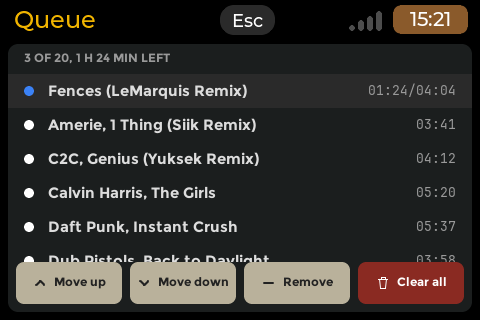
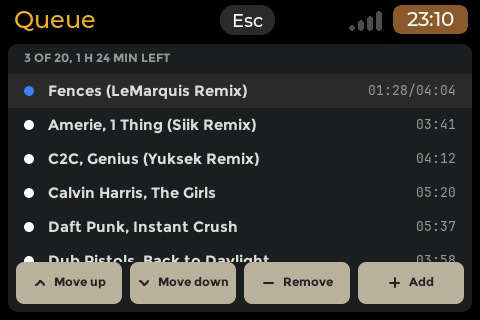
docs: app READMEs, counts, pins and screenshots brought up to date (#170)
* docs: app READMEs, root README counts and pins, Vinyl 0.8.0 shots, VHS and Mesh Hop notes brought up to date

Claude-Session: https://claude.ai/code/session_01DZirtJsMfHq7t5PFzh86rt

* docs: Vinyl and Mesh Hop screenshots re-rendered, Vinyl Equalizer, Knock-knock, Transition shots added

Claude-Session: https://claude.ai/code/session_01DZirtJsMfHq7t5PFzh86rt

---------

Changed region(s): [[0.7188, 0.8125, 0.9688, 0.9688], [0.8438, 0.0312, 0.9688, 0.0938]]

diff --git a/README.md b/README.md
@@ -43,9 +43,9 @@ Each app has its own page with the full description, keys, requirements, known l
 | [**RSS Reader**](apps/rss-reader/README.md) (`rss-reader`) | 0.2.1 | arm64, amd64 | A reader of RSS and Atom text feeds: pin your favorite news, tech and science feeds from a catalog of about 260 by country and topic, or add any site by its address, then read the articles full screen with their pictures, and save them to read offline, by touch or keyboard, on any screen from 640x480 up. Category Internet. |
 | [**Serial Console**](apps/serial-console/README.md) (`serial-console`) | 0.6.1 | arm64, amd64 | Finds your USB-serial adapters and boards, tells what is plugged in and what is behind it, recommends the settings, and talks to it. Category Tools. |
 | [**System Monitor**](apps/system-monitor/README.md) (`system-monitor`) | 0.3.1 | arm64, amd64 | A live look at the board or PC it runs on: CPU, temperature, memory, storage, network, processes, and the power supply or battery. Category Tools. |
-| [**Vinyl**](apps/vinyl/README.md) (`vinyl`) | 0.8.0 | arm64, amd64 | A music player for the music in `~/Music` and on USB drives (mounted on request, with Eject): a Library of artists, albums, songs and genres with search and the actions of a track, your own playlists (M3U8 files in `~/Music/Playlists`, with import and export), or folder by folder, gapless, shuffle, repeat, embedded cover art and resume where you stopped, with a record that slides out of its sleeve and turns while it plays. MP3, FLAC, Ogg Vorbis and Opus, WAV and AIFF, and through FFmpeg (installed with it) AAC, ALAC, WMA, APE and more. Plays on while you use other apps; wired outputs, and Bluetooth headsets and speakers on boards with a sound server; the volume of the playing output in steps fitted to it (down to 0.1 dB) and a gain boost for quiet outputs; a ten-band equalizer with presets; a Transition setting (Normal, Gapless or a crossfade of 5, 10 or 20 seconds); network folders: add your own SMB share from Music folders, and play a share the system mounted (launcher v0.10.8 or later); Knock-knock, three taps on the cover switch the screen off while the music plays (launcher 0.10.4 or later); headset and keyboard play keys; drag the seek bar to a point. From 480x320 up: 480x320, 640x480, square, portrait (PDA mode) and two-pane layouts. Category Tools. |
+| [**Vinyl**](apps/vinyl/README.md) (`vinyl`) | 0.8.0 | arm64, amd64 | A music player for the music in `~/Music` and on USB drives (mounted on request, with Eject): a Library of artists, albums, songs and genres with search and the actions of a track, your own playlists (M3U8 files in `~/Music/Playlists`, with import and export), or folder by folder, gapless, shuffle, repeat, embedded cover art and resume where you stopped, with a record that slides out of its sleeve and turns while it plays. MP3, FLAC, Ogg Vorbis and Opus, WAV and AIFF, and through FFmpeg (installed with it) AAC, ALAC, WMA, APE and more. Plays on while you use other apps; wired outputs, and Bluetooth headsets and speakers on boards with a sound server; the volume of the playing output in steps fitted to it (down to 0.1 dB) and a gain boost for quiet outputs; a ten-band equalizer with presets; a Transition setting (Normal, Gapless or a crossfade of 5, 10 or 20 seconds); network folders: add your own SMB share from Music folders (launcher v0.10.8 or later), and play a share the system mounted; Knock-knock, three taps on the cover switch the screen off while the music plays (launcher 0.10.4 or later); headset and keyboard play keys; drag the seek bar to a point. From 480x320 up: 480x320, 640x480, square, portrait (PDA mode) and two-pane layouts. Category Tools. |
 | [**viz1090**](apps/viz1090/README.md) (`viz1090`) | 0.3.2 | arm64, amd64 | The real viz1090 ADS-B display, full screen on any supported screen, fed by an RTL-SDR dongle, with an intro screen, the app header (Esc) and a world map, upright on portrait screens (PDA mode). Needs the dongle and a launcher with full-screen app support. Category Radio. |
-| [**VHS**](apps/vhs/README.md) (`vhs`) | 0.1.2 | arm64, amd64 | A camcorder for USB cameras (UVC with MJPEG; made for the UGREEN FineCam, the Logitech C270 works too): the live picture of the whole frame, with a camera chooser when two or more are plugged in; photos (Instant or Light, up to 8 MP on cameras that offer it, an Exposure row in stops on cameras with manual exposure, a wait for the autofocus to settle) and movies with sound from the camera's microphone or any sound card (MJPEG with AAC in MKV, crash-safe, split at 4 GiB, with a self-timer and a blinking red dot until the first frame is written), a Scenes list with windowed playback and seek, and copy to a USB drive. Plays on while you use other apps. From 480x320 up, with its own layout on large square screens. Needs a USB camera; the Store installs `libturbojpeg` and FFmpeg's libraries with it. Category Tools. |
+| [**VHS**](apps/vhs/README.md) (`vhs`) | 0.1.2 | arm64, amd64 | A camcorder for USB cameras (UVC with MJPEG; made for the UGREEN FineCam, the Logitech C270 works too): the live picture of the whole frame, with a camera chooser when two or more are plugged in; photos (Instant or Light, up to 8 MP on cameras that offer it, an Exposure row in stops on cameras with manual exposure, a wait for the autofocus to settle) and movies with sound from the camera's microphone or any sound card (MJPEG with AAC in MKV, crash-safe, split at 4 GiB, with a self-timer and a blinking red dot until the first frame is written), a Scenes list with windowed playback and seek, and copy to a USB drive. Hidden behind other apps it finishes and saves a recording and releases the camera; a copy to a drive goes on. Any screen size (no minimum), portrait (PDA mode) layout from 320x480, with its own layout on large square screens. Needs a USB camera; the Store installs `libturbojpeg` and FFmpeg's libraries with it. Category Tools. |
 
 `arm64` packages run on the Raspberry Pi boards (the decks). The apps marked `amd64` also have a package for x86-64 PCs
 running the launcher, listed in their own registry ([amd64](#amd64-x86-64-pcs)).
@@ -108,7 +108,7 @@ launcher bundles, so a source you create here also works in the Store app.
 1. On GitHub, click **Use this template / Fork** on this repository (or copy its `tools/` folder into a new
    public repository). The repository must be **public** and its default branch must be **`main`**.
 2. Delete the apps you do not want (`apps/*`; keep `apps/_common` and `apps/cyberdeck-app-template` if you build native
-   apps), `packages/*` (this repository holds 17 app folders and about 120 packages) and `docs/screenshots/`, then clear
+   apps), `packages/*` (this repository holds 19 app folders and about 150 packages) and `docs/screenshots/`, then clear
    `registry.json` and `registry-amd64.json` (`"apps": []`) and replace the table of apps above. Or keep a small app as an example.
 
 ## 2. Build your program for the deck
@@ -119,7 +119,7 @@ runtime: they fill the whole screen they are given and adapt their layout to it 
 not a minimum; 480x320 and 320x480 are normal sizes), and take keys and touch directly. An app declares `X-MinSize` in
 its `.desktop` file only when its UI cannot fit a smaller screen. The [app guidelines](docs/APP-GUIDELINES.md) give the screen
 sizes, the input rules, the packaging and the tests. Native apps build against one launcher commit,
-[`apps/_common/LAUNCHER_REF`](apps/_common/LAUNCHER_REF) (today `28817a5`, launcher main after v0.9.4 with the map engine and its first fixes, off by default; Cassette 0.4.0, Deck Atlas 0.2.0, Mesh Hop 0.8.3 and mmWave Radar 0.1.1 are built at `28817a5`, the other published apps (Home Assistant, Klondike Solitaire, Markdown Notes, Mine Field, Net Toolbox, Net Walk, RSS Reader, Serial Console, System Monitor, viz1090) are still built at `3f6579f`, the SSH indicator commit of launcher v0.8.12); what each launcher version adds for
+[`apps/_common/LAUNCHER_REF`](apps/_common/LAUNCHER_REF) (today `28817a5`, launcher main after v0.9.4 with the map engine and its first fixes, off by default; Cassette 0.4.2, Deck Atlas 0.2.0, Mesh Hop 0.8.3 and mmWave Radar 0.1.1 are built at `28817a5`, Vinyl (0.6.0 to 0.8.0) against launcher v0.10.4 (`1d628b3`), the other published apps (Home Assistant, Klondike Solitaire, Markdown Notes, Mine Field, Net Toolbox, Net Walk, RSS Reader, Serial Console, System Monitor, viz1090) are still built at `3f6579f`, the SSH indicator commit of launcher v0.8.12); what each launcher version adds for
 apps, and when it needs a rebuild: [launcher versions](docs/APP-GUIDELINES.md#launcher-versions-and-what-each-added-for-apps).
 
 Wrapped (compat) apps, such as the first ones here ([LAN Scan](apps/lanscan/README.md),
@@ -282,7 +282,7 @@ System libraries are not shipped: `apt` installs them.
 | libvorbisfile, libvorbis, libogg | BSD-3-Clause | dlopen | Vinyl |
 | FFmpeg (libavformat, libavcodec, libavutil, libswresample) | GPL-2.0-or-later as Debian and Raspberry Pi OS build it (LGPL-2.1-or-later upstream) | dlopen, only when a file needs it (AAC, ALAC, WMA, APE...) | Vinyl, VHS |
 | libturbojpeg (libjpeg-turbo, TurboJPEG API) | IJG License and BSD-3-Clause | dlopen | VHS |
-| libsqlite3 | public domain | dlopen | Deck Atlas |
+| libsqlite3 | public domain | dlopen | Deck Atlas, Vinyl |
 | libcurl4t64 | curl license (MIT style) | dlopen | Deck Atlas, Home Assistant |
 | libsystemd (sd-bus) | LGPL-2.1-or-later | dlopen, only for Bluetooth | Mesh Hop, mmWave Radar |
 | libsdl2, libsdl2-ttf, libsdl2-gfx | zlib | linked | viz1090 |
@@ -298,7 +298,11 @@ System libraries are not shipped: `apt` installs them.
 | Caveat SemiBold | SIL OFL 1.1 | built in (the cassette label) | Cassette |
 
 Programs an app runs, which are not libraries: `curl` (RSS Reader, Net Toolbox, Mesh Hop), `python3` (Mesh Hop, viz1090),
-`network-manager` (Net Toolbox), `bluez` (recommended by Mesh Hop and mmWave Radar). The launcher's fonts (Montserrat and
+`network-manager` (Net Toolbox), `bluez` (recommended by Mesh Hop and mmWave Radar), and, only when they are there:
+`udisksctl` (udisks2: Vinyl and VHS mount USB drives with it), `pactl` (Cassette: a card's level through a sound server),
+`vcgencmd` (System Monitor and VHS: the supply flags on a Raspberry Pi), `iw` (System Monitor, Net Toolbox),
+`bluetoothctl` and `openssl` (Net Toolbox) and the launcher's share helper (Vinyl's network shares, launcher v0.10.8 or
+later). The launcher's fonts (Montserrat and
 JetBrains Mono, SIL OFL 1.1) are read from the launcher at run time and not shipped.
 
 A library an app opens at run time has to be named in that app's `copyright` file and README
@@ -335,8 +339,8 @@ Walk, Serial Console and System Monitor have none beyond the libraries of the
   (MIT).
 * **viz1090** bundles viz1090 (BSD), readsb (GPL-3 or later), fonts (SIL OFL 1.1, Font Awesome icons CC BY 4.0) and
   map data (Natural Earth, OurAirports, public domain); see [its page](apps/viz1090/README.md).
-* **Cassette** has its own code (MIT) on the LVGL based `cp0_lvgl` runtime (MIT); the handwriting on the cassette label is Caveat SemiBold (SIL OFL 1.1, compiled into the binary, licence in the package's copyright file). It opens libasound, libFLAC, libopus and libopusenc from the system at run time and ships none of them; see [its page](apps/cassette/README.md).
-* **Vinyl** has its own code (MIT) on the LVGL based `cp0_lvgl` runtime (MIT), its sound-server and ALSA layers and the FLAC / Opus readers from this repository's Cassette (same author, MIT), and stb_image 2.30 (public domain or MIT) for embedded cover pictures. It opens libmpg123, libvorbisfile, libFLAC, libopus, libasound, libpulse and FFmpeg from the system at run time, never ships them; see [its page](apps/vinyl/README.md).
+* **Cassette** has its own code (MIT) on the LVGL based `cp0_lvgl` runtime (MIT); the handwriting on the cassette label is Caveat SemiBold (SIL OFL 1.1, compiled into the binary, licence in the package's copyright file). It opens libasound, libFLAC, libopus, libopusenc and libpulse from the system at run time and ships none of them; see [its page](apps/cassette/README.md).
+* **Vinyl** has its own code (MIT) on the LVGL based `cp0_lvgl` runtime (MIT), its sound-server and ALSA layers and the FLAC / Opus readers from this repository's Cassette (same author, MIT), and stb_image 2.30 (public domain or MIT) for embedded cover pictures. It opens libmpg123, libvorbisfile, libFLAC, libopus, libasound, libpulse, SQLite and FFmpeg from the system at run time, never ships them; see [its page](apps/vinyl/README.md).
 * **VHS** has its own code (MIT) on the LVGL based `cp0_lvgl` runtime (MIT) and the sound-server and ALSA layers of this repository's Vinyl (same author, MIT). It opens libturbojpeg, libasound, libpulse and FFmpeg from the system at run time, never ships them; see [its page](apps/vhs/README.md).
 * **Markdown Notes** parses Markdown with md4c v0.6.0 by Martin Mitas (MIT, vendored unchanged with its licence) and runs on
   the LVGL based `cp0_lvgl` runtime (MIT); see [its page](apps/markdown-notes/README.md).

diff --git a/apps/mesh-hop/README.md b/apps/mesh-hop/README.md
@@ -179,13 +179,15 @@ store (`src/core/`, with unit tests).
 ## Screenshots
 
 Made with the simulator (`mesh-hop-script`, a simulated board with invented names and test data), **not on the deck's panel**.
+They show 0.4.0 (2026-10-18): Home has had a **Node** row since 0.5.0 and a **Tools** row since 0.7.0, the Contacts bar has
+had **Search** since 0.7.0 and Settings starts with **MY CONTACT** since 0.7.0 (see the changes above).
 
 | | |
 | --- | --- |
-| ![Home](../../docs/screenshots/mesh-hop-home.png) Home: Chats (unread total), Contacts, Settings | ![Chats](../../docs/screenshots/mesh-hop-chats.png) Chats at 640x480: the Search / Add channel bar, channels and direct chats with their unread counts |
+| ![Home](../../docs/screenshots/mesh-hop-home.png) Home: Chats (unread total), Contacts, Tools, Settings, Node | ![Chats](../../docs/screenshots/mesh-hop-chats.png) Chats at 640x480: the Search / Add channel bar, channels and direct chats with their unread counts |
 | ![Conversation](../../docs/screenshots/mesh-hop-conversation.png) 640x480 by touch: a conversation's own page, the messages, the entry and Send | ![Compose with the on-screen keyboard](../../docs/screenshots/mesh-hop-compose.png) Writing without a keyboard: the compose view above the on-screen keyboard |
-| ![Options of a chat](../../docs/screenshots/mesh-hop-options.png) Hold a chat (or Ctrl+O): its options (Search messages, Add channel, Mute, Delete, Details) | ![Contacts](../../docs/screenshots/mesh-hop-contacts.png) Contacts: the Filter / Sort / More bar and the list |
-| ![Contact details](../../docs/screenshots/mesh-hop-details.png) A contact's details: Message, Groups, Delete, then name, type, groups, key, route | ![Settings](../../docs/screenshots/mesh-hop-settings.png) Settings: the BOARD section with Position and Board GPS |
+| ![Options of a chat](../../docs/screenshots/mesh-hop-options.png) Hold a chat (or Ctrl+O): its options (Search messages, Add channel, Mute, Delete, Details) | ![Contacts](../../docs/screenshots/mesh-hop-contacts.png) Contacts: the Search / Filter / Sort / More bar and the list |
+| ![Contact details](../../docs/screenshots/mesh-hop-details.png) A contact's details: Message, Groups, Delete, then name, type, groups, key, route | ![Settings](../../docs/screenshots/mesh-hop-settings.png) Settings: MY CONTACT (name, public key), then the BOARD section |
 | ![Statistics](../../docs/screenshots/mesh-hop-statistics.png) Statistics of the board | ![Chats at 800x480](../../docs/screenshots/mesh-hop-chats-800.png) 800x480: Chats in two panes, the conversation follows the selected chat |
 | ![Contacts at 800x480](../../docs/screenshots/mesh-hop-contacts-800.png) 800x480: Contacts, with the SNR on the rows | |
 
@@ -506,7 +508,7 @@ Letters typed into a field are text, not shortcuts. The keyboard layout is US by
 * `curl` (for the preset list; without it the app keeps the saved or built-in list), `libfreetype6`, `libinput10`,
   `libxkbcommon0` (the package depends on them). For the CLI: `python3 (>= 3.10)`, `python3-requests`, `python3-serial`
   (depends too).
-* **x86-64 PCs:** an amd64 package, `mesh-hop_0.7.0_amd64.deb`, is in the amd64 registry
+* **x86-64 PCs:** an amd64 package, `mesh-hop_0.8.3_amd64.deb`, is in the amd64 registry
   ([amd64](../../README.md#amd64-x86-64-pcs)) for a PC running the launcher. It has had no board test on a PC yet.
 
 **Install from the deck:** Settings > Apps > Sources > + Add a GitHub source `OSRdesign/cyberdeck-zero-apps` (if not added yet),
@@ -519,7 +521,7 @@ update in the same menu.
 python tools/make_registry.py --only mesh-hop --out <a folder outside packages/>
 ```
 
-Copy the `mesh-hop_0.7.0_arm64.deb` it writes to the deck and run `sudo apt install ./mesh-hop_0.7.0_arm64.deb` there. Remove it
+Copy the `mesh-hop_0.8.3_arm64.deb` it writes to the deck and run `sudo apt install ./mesh-hop_0.8.3_arm64.deb` there. Remove it
 with `sudo apt remove mesh-hop`.
 
 The USB boards are listed by themselves (`/dev/ttyACM*`, `/dev/ttyUSB*`, with their USB names); a path in

diff --git a/apps/vinyl/README.md b/apps/vinyl/README.md
@@ -36,12 +36,16 @@ Headless harness, demonstration world (`VINYL_DEMO=1`):
 | ![Add tracks](screenshots/33-add-tracks-480x320.png) | ![the Queue: Save as playlist](screenshots/34-queue-save-480x320.png) |
 | ![Add to playlist](screenshots/35-add-to-playlist-480x320.png) | ![Playback with Gain boost and Volume steps](screenshots/37-playback-480x320.png) |
 | ![the Gain boost list](screenshots/38-gain-boost-480x320.png) | ![the Volume steps list](screenshots/39-volume-steps-480x320.png) |
-| ![the volume chip in dB](screenshots/40-db-chip-480x320.png) | |
+| ![the volume chip in dB](screenshots/40-db-chip-480x320.png) | ![Music folders with two network shares, one not answering](screenshots/42-network-folders-480x320.png) |
+| ![a track from a network share on Now playing](screenshots/44-now-playing-share-480x320.png) | ![the Equalizer with the Bass boost preset](screenshots/46-equalizer-480x320.png) |
+| ![the Equalizer presets](screenshots/47-eq-presets-480x320.png) | ![the Menu with Knock-knock On](screenshots/48-knock-knock-480x320.png) |
+| ![the Transition list: Normal, Gapless, Crossfade 5, 10, 20 sec](screenshots/49-transition-480x320.png) | ![the end of the Keys page: queue and playlist keys](screenshots/50-keys-end-480x320.png) |
 
-The deck (640x480), square (480x480) and large (800x480, two panes), the Menu, the Keys, the Library hub, a playlist and the dB chip at 320x480:
+The deck (640x480), square (480x480) and large (800x480, two panes), the Menu, the Keys, the Library hub, a playlist and the dB chip at 320x480, Add a network folder at 800x480 and the network shares at 320x480:
 ![deck](screenshots/09-now-playing-640x480.png) ![square](screenshots/06-now-playing-480x480.png)
 ![large](screenshots/07-now-playing-800x480.png) ![Menu portrait](screenshots/18-menu-320x480.png)
 ![Keys portrait](screenshots/19-keys-320x480.png) ![Library portrait](screenshots/29-library-hub-320x480.png) ![Playlist portrait](screenshots/36-playlist-view-320x480.png) ![dB chip portrait](screenshots/41-db-chip-320x480.png)
+![Add a network folder](screenshots/43-add-network-folder-800x480.png) ![network shares portrait](screenshots/45-network-folders-320x480.png)
 
 ## What it does
 
@@ -374,7 +378,8 @@ plays in front (`dim allow`, decision D16).
   1024x768). Where a layout has less room than the 7 mm
   touch size (the deck's 640x480 at 11.3 px/mm: 70 px rows; a 3.5-inch 480x320: 43 px for the volume group and the seek
   row), the touch areas share the room without overlapping (owner rule R-4).
-- CyberdeckZero Launcher with the app contract; built at the shared pin (`apps/_common/LAUNCHER_REF`).
+- CyberdeckZero Launcher with the app contract; from 0.6.0 built against launcher v0.10.4 (`1d628b3`), not the shared pin
+  (`apps/_common/LAUNCHER_REF`). Knock-knock needs launcher 0.10.4 or later, adding a network share 0.10.8 or later.
 - Packages (Debian 13 names, all Depends): libmpg123-0t64, libvorbisfile3, libflac14, libopus0, libasound2t64,
   libpulse0, libavformat61, libavcodec61, libavutil59, libswresample5 (Ubuntu 26.04: libavformat62, libavcodec62,
   libavutil60, libswresample6), libsqlite3-0 (the Library).

diff --git a/apps/net-toolbox/README.md b/apps/net-toolbox/README.md
@@ -20,7 +20,7 @@ are not installed on the boards, and their output does not fit the small screen.
 
 The plan and the measured facts behind it are in the launcher's report 027 (`docs/dev/reports/027-net-toolbox.md`).
 
-**State of this version (0.2.0):** the core and the pages of all nine tools (Home, Diagnosis, Ping, Traceroute,
+**0.2.0:** the core and the pages of all nine tools (Home, Diagnosis, Ping, Traceroute,
 DNS lookup, Port check, HTTP check, Public IP, Whois, Interfaces) are written; the unit tests and the headless scenes
 pass; the pages ran on the deck (Zero 2 W); the board tests (`tests/BOARD-TESTS.md`) are still to be run on the Pi 3A+. The core of the four new
 tools is described in [0.2.0: the new tools' core](#020-the-new-tools-core).
@@ -34,7 +34,7 @@ adapter, Ethernet): see [The network chooser](#the-network-chooser-03). The spee
 have run on the deck (Zero 2 W) and the Pi 3A+; Wake-on-LAN and the interface chooser with a second adapter are still to be
 tried on a board (`tests/BOARD-TESTS.md`, B11 to B15).
 
-**0.4.0 (draft):** three more tools with their pages, folding in LAN Scan and Wi-Fi Survey. **Local devices** discovers the
+**0.4.0** (published 2026-10-16): three more tools with their pages, folding in LAN Scan and Wi-Fi Survey. **Local devices** discovers the
 devices on your network (their address, MAC, vendor and name), marks this device and the router, and scans the open TCP ports
 of one device you pick (its page also pings it, checks a port, saves it for Wake-on-LAN). **Wi-Fi networks** lists the networks
 around (signal bars, channel, band, security), a Channels view with the least crowded channel, and a page per network that
@@ -728,9 +728,10 @@ Logs go to stderr with the tag `[net-toolbox]` (the launcher's journal).
 
 ## Known limits
 
-* **Not yet run on a board**: the tools are unit-tested on fixtures and on loopback and the pages on headless scenes;
-  the board protocol (`tests/BOARD-TESTS.md`) is still to be run.
-* 0.4 (draft): the Local devices, Wi-Fi networks and Wi-Fi walk test pages have only run in the headless scenes; the board steps
+* **Board tests**: the tools are unit-tested on fixtures and on loopback and the pages on headless scenes; the pages of
+  0.1 and 0.2 ran on the deck and the Pi 3A+ (shots 01 to 12 above), those of 0.3 as below; the full board protocol
+  (`tests/BOARD-TESTS.md`) is still to be run.
+* 0.4: the Local devices, Wi-Fi networks and Wi-Fi walk test pages have only run in the headless scenes; the board steps
   B16 to B19 are still to be run. A host that answers neither ICMP, a TCP SYN nor ARP is not listed; the Wi-Fi list is
   NetworkManager's (its signal is a percentage turned back into dBm, up to about 30 s old); the walk test needs a Wi-Fi link
   and, for the access point changes, `iw`. Leaving a device's page stops its port scan; leaving Local devices or Wi-Fi networks

diff --git a/apps/mesh-hop/docs/CONNECT.md b/apps/mesh-hop/docs/CONNECT.md
@@ -48,6 +48,7 @@ page is shown, after a first-use warning; a PIN box; IP nodes added by hand and 
 | Row | Marker | First line | Second line |
 | --- | --- | --- | --- |
 | a USB board (`/dev/ttyACM*`, `/dev/ttyUSB*`, the port file) | dot | its node name once it answered, else the USB product name | `ttyACM0 · T1000-E` |
+| a USB port another program holds open (0.8.3) | grey dot, dimmed | as above | `in use by rnsd` (the program's name, else "another program"); choosing it says "This port is used by rnsd. Close that program first." and opens nothing |
 | a Bluetooth node (Nordic UART service or a `MeshCore-` name; paired first, then the strongest) | dot; signal bars while the scan hears it | its node name, else the advertised name without `MeshCore-` | `BLE · paired` / `BLE · not paired yet (PIN)` |
 | a node added by IP address | dot | its name, else the address | `192.168.1.20:5000` |
 | Bluetooth | dot (blue while scanning) | Scanning for Bluetooth nodes... / Rescan for Bluetooth nodes / Scan for Bluetooth nodes | how many were heard, or the keyboard warning |
@@ -55,7 +56,9 @@ page is shown, after a first-use warning; a PIN box; IP nodes added by hand and 
 | Add a node by IP address (last) | chevron | | A MeshCore node on Wi-Fi (TCP port 5000) |
 
 The node being connected shows its state on its second line: `· Connecting...`, `· Pairing...`, `· Type the PIN` (amber),
-`· Connected` (green), `Failed: <reason> · tap to retry` (red); the line under the title repeats it. Row affordance: a first tap
+`· Connected` (green), `Failed: <reason> · tap to retry` (red); the line under the title repeats it. With two or more USB ports,
+no node in use and none of them the node chosen last, the line under the title says **Several serial devices found: choose
+your MeshCore node.** (0.8.3: no port is opened by a guess). Row affordance: a first tap
 selects, a tap on the selected row acts (a node connects, a failed one retries, the connected one goes back to Home); keys:
 Up / Down, Enter, `O` or Ctrl+O (or a 3 s hold) the options (Forget this node for a paired Bluetooth node, Remove IP node,
 Info), `S` scan, `A` add by IP, `I` info. The header's Esc at the start asks **Quit Mesh Hop?** (the root, as Home); opened
@@ -94,7 +97,7 @@ and Bluetooth the next keeps its chats.
 * `MESHHOP_PORT=/dev/...` (the simulator, the scripted runs, a udev alias) is a choice already made: the app connects to that
   port at once and opens on Home, as before 0.5.0.
 * `MESHHOP_DEMO=<scenario>` plays the page with pretend USB ports and Bluetooth (`src/core/node_demo.*`: empty, usb, ble,
-  first, pin, fail, ip, off, nobt) for the screenshots; nothing of the system is touched.
+  first, pin, fail, usb2, busy, usb1, ip, off, nobt) for the screenshots; nothing of the system is touched.
 
 ## 3. Tests
 

diff --git a/apps/vhs/docs/SETTINGS.md b/apps/vhs/docs/SETTINGS.md
@@ -12,7 +12,7 @@ are kept when it writes the file again.
 | `folder` | Folder | the current folder or `~/VHS` (Cassette's rule: other folders by editing this file) | `~/VHS` |
 | `prefix` | Name prefix | 1-24 of `A-Z a-z 0-9`, space, `_`, `-`; no space first or last; not starting with `.` | `scene` |
 | `photo_mode` | Photo | `instant` (the next frame of the photo stream) or `light` (the stream switches for the photo); absent: by the board's SoC (Instant on BCM2712 / BCM2711 / BCM2837, Light elsewhere) | per SoC |
-| `photo_size` | Photo size | `WxH` of a listed MJPEG size of the camera, at any rate (0.1.2 draft 2: the 15 fps sizes such as 3264x2448 too; the row shows "3264x2448 (8 MP)" from 3 MP up, the file keeps `WxH`); absent: the largest at 30 fps | largest at 30 fps |
+| `photo_size` | Photo size | `WxH` of a listed MJPEG size of the camera, at any rate (0.1.2: the 15 fps sizes such as 3264x2448 too; the row shows "3264x2448 (8 MP)" from 3 MP up, the file keeps `WxH`); absent: the largest at 30 fps | largest at 30 fps |
 | `video_size` | Video size | `WxH` of a listed MJPEG 30 fps size, shown with "MJPEG" | `1280x720` |
 | `self_timer_s` | Self-timer | `0` (Off), `3`, `5`, `10`; other numbers move to the nearest | `0` |
 | `split` | Split long scenes | `true` (cut at `split_mib`), `false` (one file) | `true` |

diff --git a/apps/vhs/README.md b/apps/vhs/README.md
@@ -88,8 +88,9 @@ owner decides which wins when zoom comes).
 - Reading the media keys needs read access to `/dev/input/event*` (the `input` group, as the launcher's user has).
 - Boards: RPI52 (Pi 5), a Pi 4B with the FineCam and with the C270, palmpi (Pi 3A+) and zero8 (Zero 2 W, 320x480).
   Builds of 0.1.0 have been tried on some of them; the board round has not been run, except the Square tests B33-B38,
-  passed on the HackBerry with 0.1.1 on 2026-11-17, and the 0.1.2 tests B39-B42, B45, B46 and B48 passed on the
-  Panasonic FZ-M1 (amd64, two built-in USB cameras) on 2026-11-21 (see
+  passed on the HackBerry with 0.1.1 on 2026-11-17, the 0.1.2 tests B39-B42, B45, B46 and B48 passed on the
+  Panasonic FZ-M1 (amd64, two built-in USB cameras) on 2026-11-21, and B43 and B44 (one FineCam; the FineCam and the
+  C270 together) passed on a Pi 5 and on the 7-inch Pi 4B on 2026-11-22 (see
   [`tests/BOARD-TESTS.md`](tests/BOARD-TESTS.md), "Findings so far").
 
 ## Install

diff --git a/tools/README.md b/tools/README.md
@@ -20,7 +20,8 @@ a pull request ([PUBLISHING.md](../docs/PUBLISHING.md)).
 
 Reads every `apps/<id>/app.json`, builds `packages/<package>_<version>_<arch>.deb` for each architecture the app lists
 (`root/` with `root.<arch>/` laid over it), and writes the registries with the download URL, md5, sha256 and size.
-Owner and repository come from the git remote `origin` (`--owner`, `--repo`, `--branch` override them).
+Owner and repository come from the git remote `origin` (`--owner`, `--repo`, `--branch` override them;
+`--registry-name` sets the registry's `registry_id`, the repository name by default).
 
 ```
 python3 tools/make_registry.py                    # every app, every architecture: builds and writes both registries

diff --git a/apps/wifi-survey/README.md b/apps/wifi-survey/README.md
@@ -2,7 +2,7 @@
 
 Version 0.1.1, package `wifi-survey`. Part of [cyberdeck-zero-apps](../../README.md).
 
-> **Net Toolbox replaces it.** Net Toolbox 0.4.0 has the same feature as "Wi-Fi networks", on a full-screen layout. This app stays available for now.
+> **Net Toolbox replaces it.** Net Toolbox 0.4.0 has the same feature as "Wi-Fi networks", on a full-screen layout. This app was unpublished on 2026-11-02 and is kept as a draft.
 
 Wi-Fi Survey shows the Wi-Fi networks around the deck: a **Networks** list (name, signal, channel, band, security,
 the network you are connected to marked) and a **Channels** chart that points out the least crowded channel.

diff --git a/apps/lanscan/README.md b/apps/lanscan/README.md
@@ -2,7 +2,7 @@
 
 Version 0.1.3, package `lanscan`. Part of [cyberdeck-zero-apps](../../README.md).
 
-> **Net Toolbox replaces it.** Net Toolbox 0.4.0 has the same feature as "Local devices", on a full-screen layout. This app stays available for now.
+> **Net Toolbox replaces it.** Net Toolbox 0.4.0 has the same feature as "Local devices", on a full-screen layout. This app was unpublished on 2026-11-02 and is kept as a draft.
 
 LAN Scan lists the devices on the Wi-Fi network the deck is connected to (IP, MAC, vendor, name) and scans the
 open ports of the one you select.

diff --git a/apps/markdown-notes/README.md b/apps/markdown-notes/README.md
@@ -130,7 +130,7 @@ size, so the portrait layout is the same pages in one column at the screen's wid
 
 ## Install
 
-Settings > Apps once the app is published; until then by hand: `sudo dpkg -i markdown-notes_0.2.1_arm64.deb` (amd64 on a
+Settings > Apps > Available > Markdown Notes, or by hand: `sudo dpkg -i markdown-notes_0.2.1_arm64.deb` (amd64 on a
 PC). Removing it (`sudo dpkg -r markdown-notes`) leaves the vault and the settings.
 
 ## Files the app keeps
